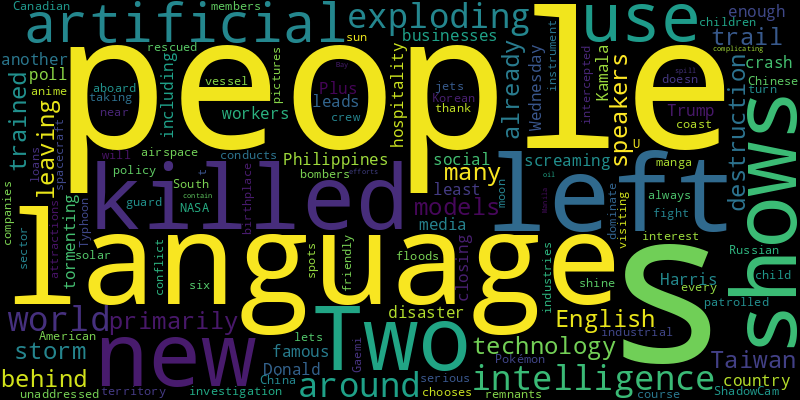
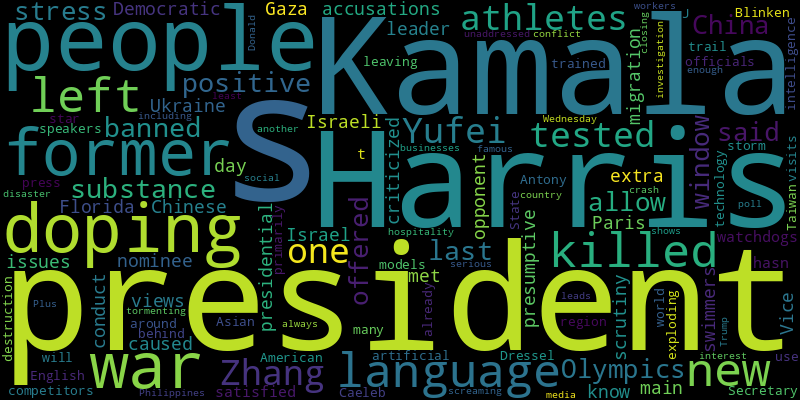
chore(bot): 🤖 auto commit

diff --git a/README.md b/README.md
@@ -2,41 +2,41 @@
 Auto RSS New York Times and Generate Word Cloud
 
 ## New York Times Global News
-* At least three high-speed links to Paris were disrupted, causing widespread delays affecting about 800,000 travelers, the French national rail company said.
-* A single image captures the change in fortunes for a wine cellar turned field hospital in Russian-occupied Ukraine.
-* A country torn apart by civil war could soon face one of the world’s worst famines in decades, experts said.
-* Two Russian and two Chinese bombers patrolled the airspace near American territory and were intercepted by U.S. and Canadian jets.
-* Polish divers think they have found cases of Champagne on a 19th-century merchant vessel that sank off Sweden.
-* The West African nation of Burkina Faso was once known for its lively arts scene. Now, it is a country torn apart by Islamist extremists and the government’s brutal effort to drive them out.
-* Each new disaster, including a crash that killed 18 people on Wednesday, leads to another investigation. A serious conflict of interest is always left unaddressed.
-* In a TV interview airing on Thursday, Harry said his dispute with British newspapers over illegal information gathering was a “central piece” of his estrangement from other royals.
-* Even if Paris weren’t scarred by terrorist attacks, protecting the opening ceremony, which will float down the Seine, offers a daunting challenge.
-* In seven years, Racheal Kundananji went from playing her first organized game to signing a multimillion-dollar contract. Her rise could have lasting effects.
+* With the closure of checkpoints, Israeli Arabs cannot come to Jenin and Tulkarm to shop, and West Bank Palestinians cannot leave to work in Israel, cutting incomes and building militancy.
+* Prosecutors in Ukraine are pursuing cases of sexual assault by Russian soldiers, but survivors say more financial and psychological support is needed.
+* Heads of state and diplomats who have interacted with the presumptive Democratic presidential nominee say she uses humor, and talk of food, to help leaven hard discussions.
+* France’s national railway company said traffic was gradually returning to normal a day after arsonists disrupted three high-speed rail lines. No one has claimed responsibility for the attacks.
+* Léon Marchand, who has the potential to win medals in four individual events, bears much of the weight of France’s expectations. He is ready, he says, but adds, “it does feel weird.”
+* The sprawling ceremony was held under rainy skies and featured sports stars like Zinedine Zidane and Serena Williams. Earlier, coordinated arson attacks disrupted service on three high-speed links to Paris, causing severe delays.
+* Here is what we know about the presumptive Democratic presidential nominee’s views on issues like migration and the wars in Ukraine and Gaza.
+* In Paris, Chinese swimmers have been under extra scrutiny by doping watchdogs, but that hasn’t satisfied competitors like American star Caeleb Dressel.
+* The move underscored the wartime risks for the Kremlin as the government pumps enormous sums of money into the Russian economy.
+* Fast-moving fires have destroyed a third of the buildings in the picturesque town of Jasper, Alberta, and its national park. But the mayor hopes to rebuild.
 
 ![Global](./global.png)
 ## New York Times United States News
-* The state superintendent said he would crack down on “rogue districts” opposing the mandate. The guidelines detail how the Bible should be taught by subject and grade levels from five to 12.
-* The Secret Service, which has been under scrutiny since the assassination attempt against Donald J. Trump, says it has reviewed its security plan for the convention in August.
-* Republicans are already seeking to link Vice President Kamala Harris to pandemic school closures, which local teachers’ unions pushed to extend.
-* An analysis by the Council on Criminal Justice cautions that progress has been uneven, with the trend being driven by declines in a handful of big cities.
-* One man is being held without bail after a witness saw him push a flaming vehicle down an embankment on Wednesday, the authorities said. The Park fire has burned more than 164,000 acres.
-* After years planning to face President Biden, Donald J. Trump and his team will now be campaigning against Kamala Harris. Maggie Haberman, a senior political correspondent for The New York Times, describes how Mr. Trump may try to frame his new opponent.
-* Lobbyists and lawyers are raising money for Vice President Kamala Harris, the likely Democratic presidential nominee, and assessing what her term might look like.
-* A review of JD Vance’s writings and interviews reveals the gradual, complicated process behind his conversion from anti-Trump author to pro-Trump senator.
-* Russia’s defense minister said he needed to talk to Defense Secretary Lloyd Austin about an alleged Ukrainian operation. What happened next remains murky.
-* An absence of medical records or official accounts has stirred confusion, but a Times video and trajectory analysis indicates a bullet, not debris, wounded the former president.
+* In California, the Park fire has charred more than 307,000 acres, becoming the country’s largest this year. The Durkee fire in Oregon has covered at least 288,000 acres.
+* The agreement, if approved by a federal judge, could deliver the final hammer blow to the amateur model of college athletics.
+* In California, Gov. Gavin Newsom’s declaration urging cities to clear homeless camps met its strongest opposition in Los Angeles.
+* The Park fire in Northern California quickly became the state’s largest and most destructive wildfire this year, not far from where Paradise, Calif., was decimated in 2018.
+* A former Yale Law School classmate shared with The Times about 90 emails and text messages with Mr. Vance. Here are some of the most revealing moments in their correspondence.
+* Andy Beshear, the Democratic governor of a deep-red state, is an intriguing Southern contender to become Kamala Harris’s running mate. He’s already straining to go after JD Vance.
+* His political views differed from a transgender classmate’s, but they forged a bond that lasted a decade — until Mr. Vance seemed to pivot, politically and personally.
+* Speaking to religious conservatives in Florida, former President Donald J. Trump accused Vice President Kamala Harris of wanting to use left-wing values to transform the United States.
+* The explanation was the most definitive to date after the bureau’s director had earlier suggested the former president might have been hit by shrapnel, igniting a political storm.
+* The vice president’s expressions of concern for Palestinian suffering marked a shift in emphasis from the president’s statements as she moved to establish herself as the leader of her party.
 
 ![US](./usnews.png)
 ## New York Times Asia News
+* Zhang Yufei, one of 23 athletes who tested positive for a banned substance before the last Olympics, said China did not allow doping, and offered a window into the stress the accusations have caused.
+* Here is what we know about the presumptive Democratic presidential nominee’s views on issues like migration and the wars in Ukraine and Gaza.
+* The former president met with the Israeli leader in Florida, a day after his main opponent, Vice President Kamala Harris, and he both criticized Israel’s conduct of the war.
+* In Paris, Chinese swimmers have been under extra scrutiny by doping watchdogs, but that hasn’t satisfied competitors like American star Caeleb Dressel.
+* Asian officials will press Secretary of State Antony J. Blinken about the former president and about Kamala Harris as he visits the region.
 * The use of artificial intelligence is exploding around the world, but the technology’s language models are primarily trained in English, leaving many speakers of other languages behind.
 * The storm has already left a trail of destruction in Taiwan and the Philippines, where it killed at least 15 people.
 * The country is famous for its hospitality. But businesses have had enough of people screaming at workers or tormenting them on social media.
 * Plus, a new poll shows Kamala Harris closing in on Donald Trump.
 * Each new disaster, including a crash that killed 18 people on Wednesday, leads to another investigation. A serious conflict of interest is always left unaddressed.
-* Two Russian and two Chinese bombers patrolled the airspace near American territory and were intercepted by U.S. and Canadian jets.
-* The solar sector shows how China conducts industrial policy: It chooses industries to dominate, floods them with loans and lets companies fight it out.
-* ShadowCam, a NASA instrument aboard a South Korean spacecraft, is taking pictures of the moon where the sun doesn’t shine.
-* The birthplace of anime, manga and, of course, Pokémon, has child-friendly attractions at every turn. Here, six spots your children will thank you for visiting.
-* The coast guard rescued 16 of the vessel’s 17 crew members, but Typhoon Gaemi’s remnants were complicating efforts to contain the oil spill in Manila Bay.
 
 ![Asian](./asian.png)
